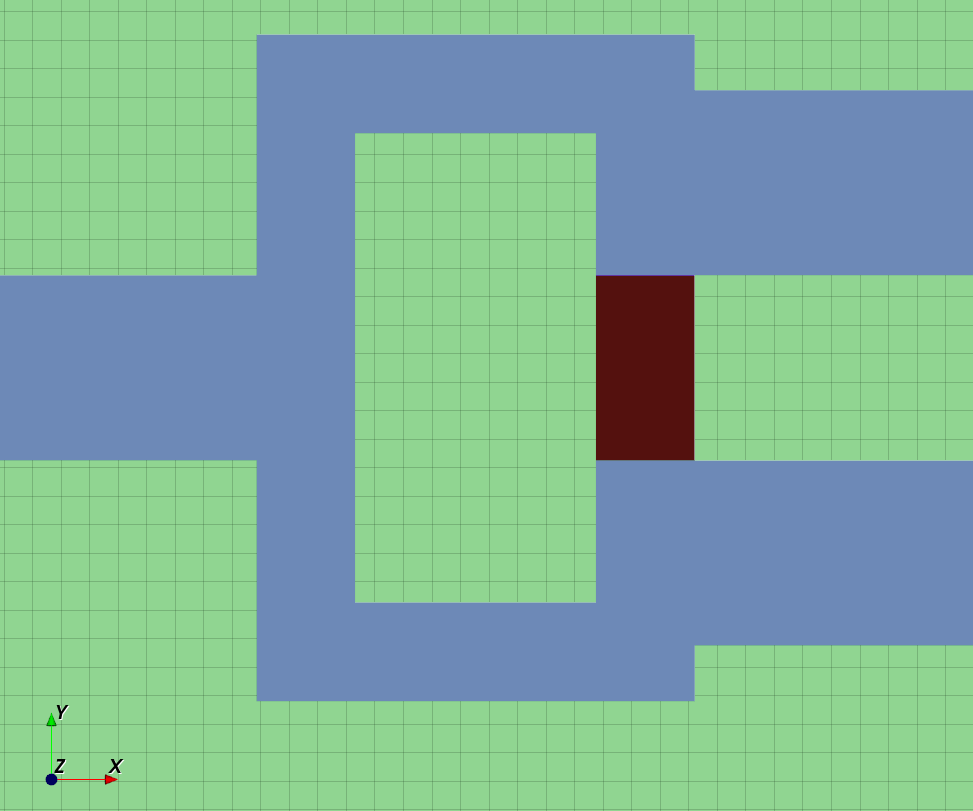
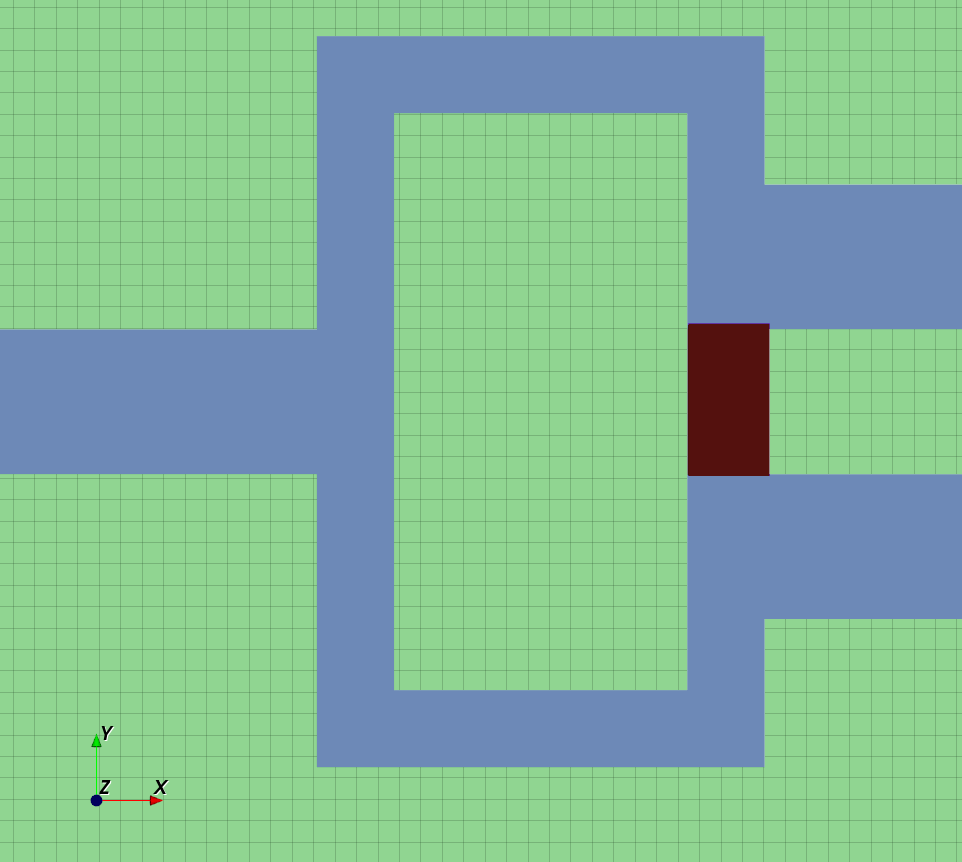
Change Wilkinson to fc=3 GHz

diff --git a/power divider/Wilkinson/wilkinson.m b/power divider/Wilkinson/wilkinson.m
@@ -19,7 +19,7 @@ f_max = 6e9;
 w_50 = 3.127;
 w_70 = 1.6688;
 
-l_lambda_4 = 12.2;
+l_lambda_4 = 19;
 l1_1 = l_lambda_4/3;
 l1_2 = l_lambda_4/3;
 l1_3 = l_lambda_4/3;
